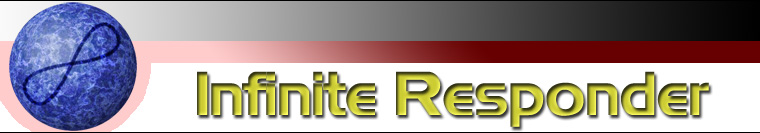
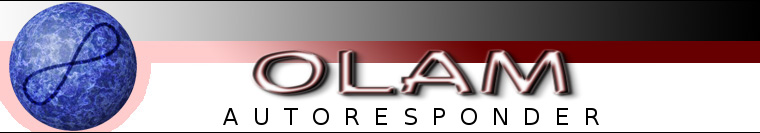
updated the look and feel

Changed region(s): [[0.2421, 0.3609, 0.9382, 0.9925]]

diff --git a/templates/main.css b/templates/main.css
@@ -1,6 +1,8 @@
 body {
-     background-color: #000066;
-     background-image: url('../images/background.gif');
+     background-color: white;
+     background-image: url('../images/bg.png');
+     
+    background-repeat: repeat-x;
 }
 
 form {
@@ -82,13 +84,13 @@ td {
     border-width: 2px;
     border-color: #000000; 
     font-family: arial,helvetica;
-    color: #FFFFFF; 
-    background-color : #000066;
+    color: black 
+    background-color : white;
 }
 
 .big_header {
     font-size: 25px;
-    color: #660000;
+    color: #3366CC;
     text-align: center;
 }
 
@@ -96,6 +98,7 @@ td {
     font-size: 25px;
     color: #FFFFFF;
     text-align: center;
+    background-color: #3366cc;
 }
 
 .err_msg {
@@ -126,11 +129,11 @@ td {
 }
 
 .row_color_1 {
-    background-color : #FFFFCC;
+    background-color : #5c83d2;
 }
 
 .row_color_2 {
-    background-color : #CCCC99;
+    background-color : #a1aec8;
 }
 
 body.tagref {

diff --git a/templates/create.messages.php b/templates/create.messages.php
@@ -1,6 +1,6 @@
 <center>
     <FORM action="messages.php" method=POST enctype="multipart/form-data">
-        <table width="750" cellpadding="0" cellspacing="5" bgcolor="#660000" style="border: 1px solid #000000;">
+        <table width="750" cellpadding="0" cellspacing="5" bgcolor="#3366cc" style="border: 1px solid #000000;">
             <tr>
                 <td>
                     <p class="white_header">-- Create a New Message --</p>

diff --git a/templates/update_top.responders.php b/templates/update_top.responders.php
@@ -25,7 +25,7 @@ include_once('popup_js.php');
     <table width="700">
         <tr>
             <td>
-                <table width="100%" bgcolor="#660000" style="border: 1px solid #000000;">
+                <table width="100%" bgcolor="#3366cc" style="border: 1px solid #000000;">
                     <tr>
                         <td>
                             <p class="white_header">-- Edit Responder --</p>

diff --git a/templates/update.messages.php b/templates/update.messages.php
@@ -1,6 +1,6 @@
 <center>
     <FORM action="messages.php" method=POST>
-        <table width="750" cellpadding="0" cellspacing="5" bgcolor="#660000" style="border: 1px solid #000000;">
+        <table width="750" cellpadding="0" cellspacing="5" bgcolor="#3366cc" style="border: 1px solid #000000;">
             <tr>
                 <td>
                     <p class="white_header">-- Change a Message --</p>

diff --git a/templates/bulk_add.admin.php b/templates/bulk_add.admin.php
@@ -1,6 +1,6 @@
 <br/>
 <center>
-    <table width="750" bgcolor="#660000" cellpadding="0" cellspacing="3" style="border: 1px solid #000000;">
+    <table width="750" bgcolor="#3366cc" cellpadding="0" cellspacing="3" style="border: 1px solid #000000;">
         <tr>
             <td>
                 <p align="center" style="font-size: 200%"><font color="#FFFFFF">-- Add a List of Addresses --</font></p>

diff --git a/templates/adduser_top.admin.php b/templates/adduser_top.admin.php
@@ -1,7 +1,7 @@
 <center>
     <br/>
     <FORM action="admin.php" method=POST>
-        <table width="750" bgcolor="#660000" style="border: 1px solid #000000;">
+        <table width="750" bgcolor="#3366cc" style="border: 1px solid #000000;">
             <tr>
                 <td>
                     <p align="center" style="font-size: 200%"><font color="#FFFFFF">-- Add Subscribers --</font></p>

diff --git a/templates/login.admin.php b/templates/login.admin.php
@@ -1,6 +1,6 @@
 <form action="login.php" method="POST">
     <center>
-        <table width="300" bgcolor="#E7E7CE" style="border: 1px solid #000000;">
+        <table width="300" bgcolor="#CCCCCC" style="border: 1px solid #000000;">
             <tr>
                 <td>
                     <table align="center" width="400" cellspacing="2">
